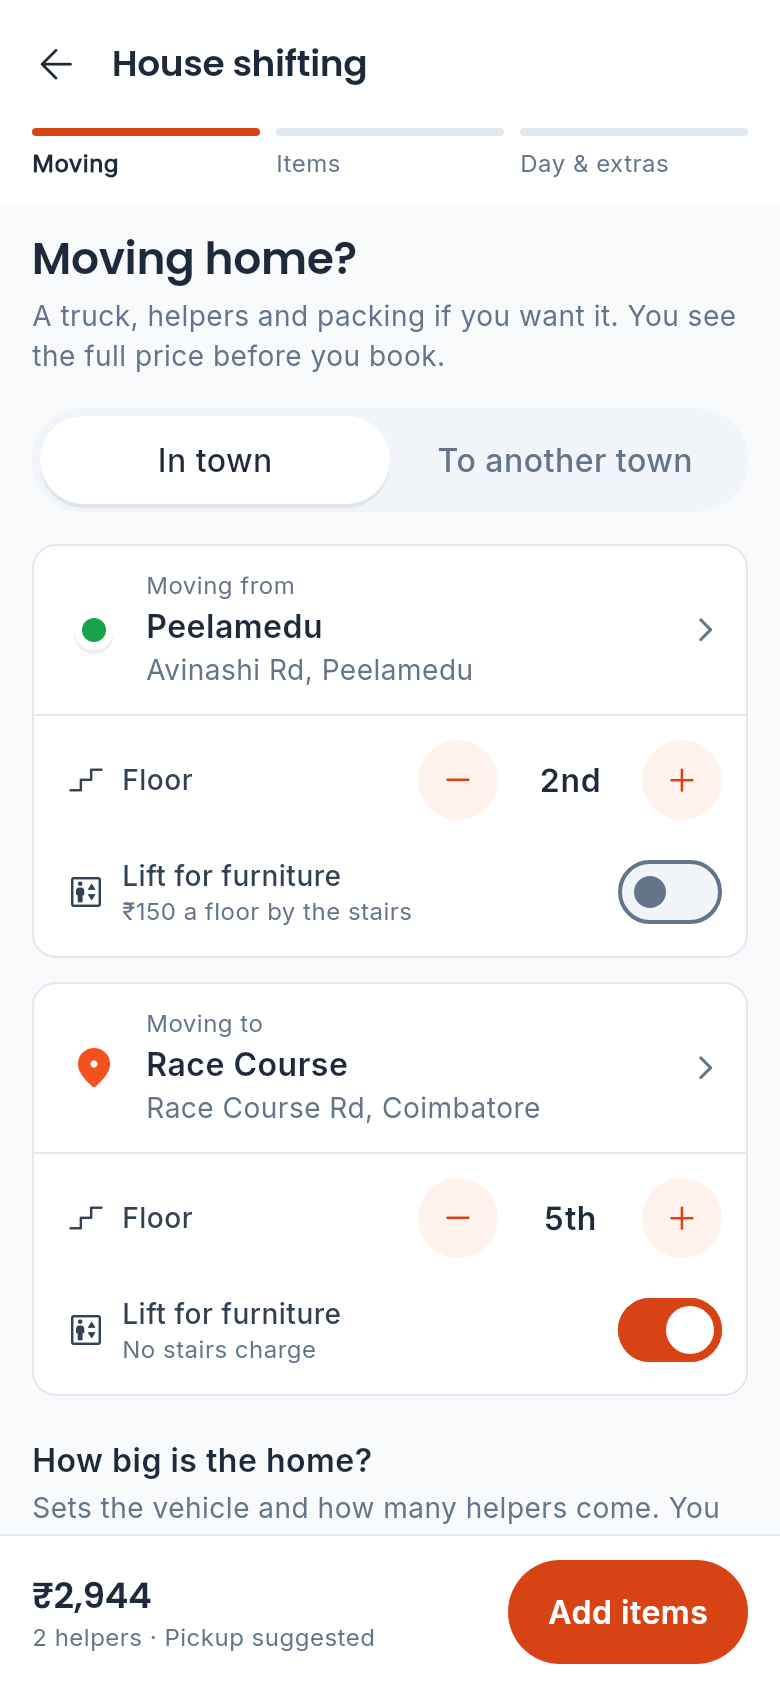
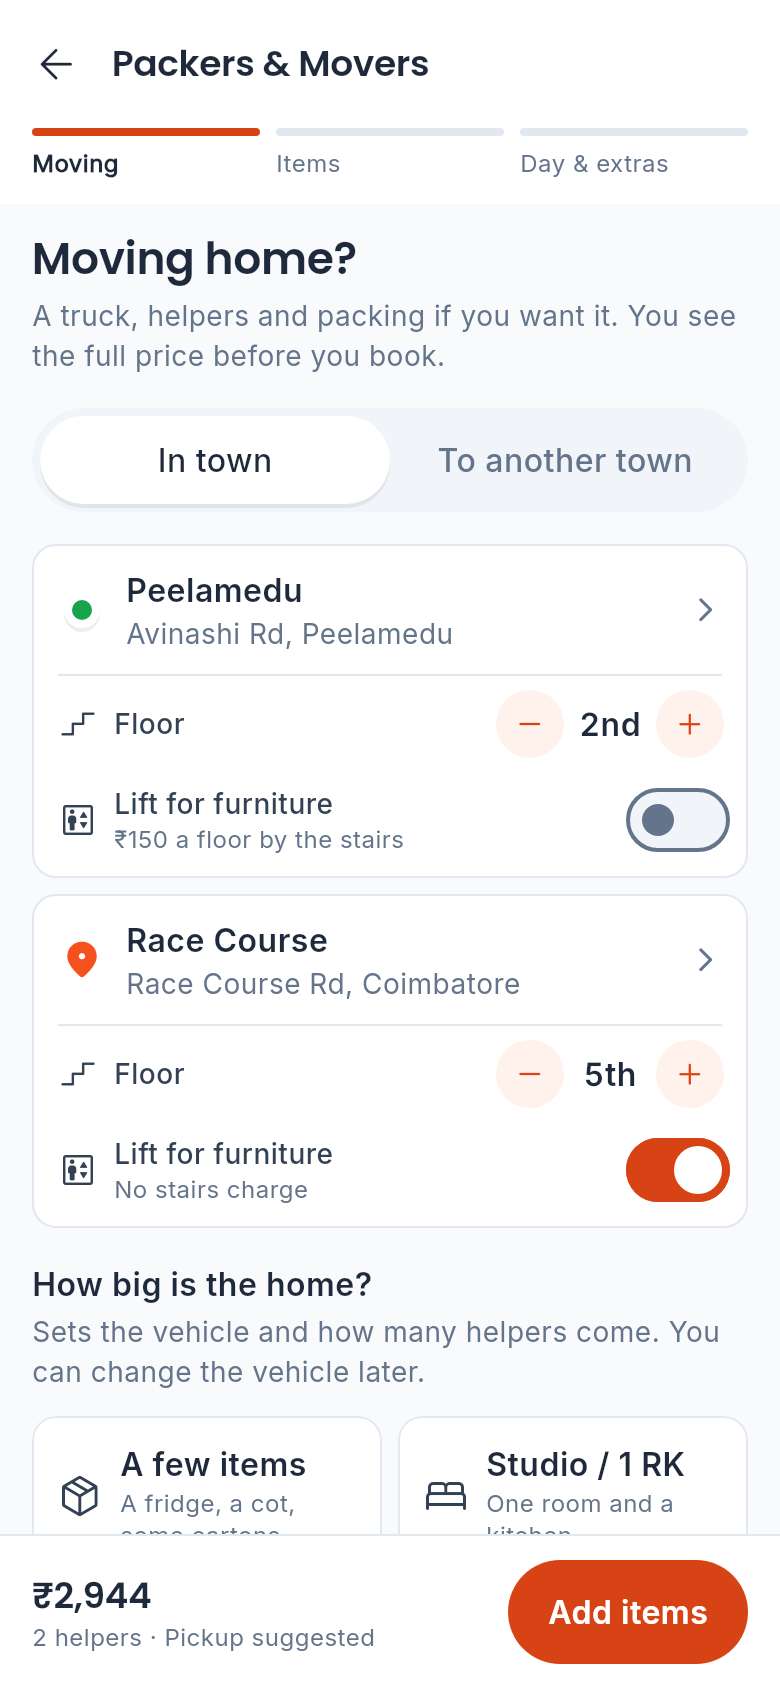
fix(passenger): compact Packers & Movers step 1, no endless price placeholder
PH-01's old and new home cards are a third shorter: no "Moving from / to"
caption (the dot and pin say it, the label stays for screen readers),
tighter padding and a dense floor stepper, so the home sizes show above the
fold.

Until the new home is chosen there is nothing to price, but the price bar
showed a grey placeholder that looked like it was loading for ever. It now
shows only "Choose the new home to see the price" (ShiftingPriceBar
`pricing`); the placeholder stays for a price that is on its way. PH-01's
title is "Packers & Movers".

diff --git a/apps/passenger/lib/features/shifting/widgets/shifting_widgets.dart b/apps/passenger/lib/features/shifting/widgets/shifting_widgets.dart
@@ -190,7 +190,8 @@ String floorShort(int floor) {
   return floorLabel(floor, false).split(' ').first;
 }
 
-/// One end of the move: the place (tap to change), its floor and whether there is a lift.
+/// One end of the move, compact: the place (tap to change; the green dot is the old home, the pin the new one), its
+/// floor and, above the ground floor, whether there is a lift.
 class MoveEndCard extends StatelessWidget {
   const MoveEndCard({
     super.key,
@@ -219,7 +220,7 @@ class MoveEndCard extends StatelessWidget {
     final t = context.type;
     final p = place;
     return Container(
-      margin: const EdgeInsets.only(bottom: TtSpacing.m),
+      margin: const EdgeInsets.only(bottom: TtSpacing.s),
       decoration: BoxDecoration(
         color: TtColors.surface,
         borderRadius: TtRadii.cardRadius,
@@ -229,44 +230,49 @@ class MoveEndCard extends StatelessWidget {
       child: Column(
         crossAxisAlignment: CrossAxisAlignment.stretch,
         children: [
-          InkWell(
-            onTap: onPlace,
-            child: Padding(
-              padding: const EdgeInsets.fromLTRB(TtSpacing.l, TtSpacing.m, TtSpacing.s, TtSpacing.m),
-              child: Row(
-                children: [
-                  SizedBox(width: 28, child: Center(child: isPickup ? const PickupDot(size: 12) : const DropPin(size: 24))),
-                  const SizedBox(width: TtSpacing.m),
-                  Expanded(
-                    child: Column(
-                      crossAxisAlignment: CrossAxisAlignment.start,
-                      children: [
-                        Text(isPickup ? 'Moving from' : 'Moving to', style: t.caption.copyWith(color: TtColors.navy500)),
-                        Text(
-                          p?.name ?? 'Choose the new home',
-                          style: t.bodySemibold.copyWith(color: p == null ? TtColors.coral600 : TtColors.navy900),
-                          maxLines: 1,
-                          overflow: TextOverflow.ellipsis,
-                        ),
-                        if (p != null && p.address.isNotEmpty)
-                          Text(p.address, style: t.bodySmall.copyWith(color: TtColors.navy500), maxLines: 1, overflow: TextOverflow.ellipsis),
-                      ],
+          Semantics(
+            button: true,
+            label: '${isPickup ? 'Moving from' : 'Moving to'} ${p?.name ?? 'not chosen yet'}',
+            excludeSemantics: true,
+            child: InkWell(
+              onTap: onPlace,
+              child: Padding(
+                padding: const EdgeInsets.fromLTRB(TtSpacing.m, 10, TtSpacing.s, 10),
+                child: Row(
+                  children: [
+                    SizedBox(width: 24, child: Center(child: isPickup ? const PickupDot(size: 10) : const DropPin(size: 22))),
+                    const SizedBox(width: 10),
+                    Expanded(
+                      child: Column(
+                        crossAxisAlignment: CrossAxisAlignment.start,
+                        children: [
+                          Text(
+                            p?.name ?? 'Choose the new home',
+                            style: t.bodySemibold.copyWith(color: p == null ? TtColors.coral600 : TtColors.navy900),
+                            maxLines: 1,
+                            overflow: TextOverflow.ellipsis,
+                          ),
+                          if (p != null && p.address.isNotEmpty)
+                            Text(p.address, style: t.bodySmall.copyWith(color: TtColors.navy500), maxLines: 1, overflow: TextOverflow.ellipsis),
+                        ],
+                      ),
                     ),
-                  ),
-                  const Icon(Symbols.chevron_right_rounded, color: TtColors.navy500),
-                ],
+                    const Icon(Symbols.chevron_right_rounded, color: TtColors.navy500),
+                  ],
+                ),
               ),
             ),
           ),
-          const Divider(height: 1),
+          const Divider(height: 1, indent: TtSpacing.m, endIndent: TtSpacing.m),
           Padding(
-            padding: const EdgeInsets.fromLTRB(TtSpacing.l, TtSpacing.s, TtSpacing.s, TtSpacing.s),
+            padding: const EdgeInsets.fromLTRB(TtSpacing.m, 0, TtSpacing.xs, 0),
             child: Row(
               children: [
                 const Icon(Symbols.stairs_2_rounded, size: 20, color: TtColors.navy700),
                 const SizedBox(width: TtSpacing.s),
                 Expanded(child: Text('Floor', style: t.bodySmallMedium.copyWith(color: TtColors.navy700))),
                 CountStepper(
+                  dense: true,
                   value: floor,
                   max: GoodsModeRates.maxFloor,
                   label: floorShort(floor),
@@ -283,7 +289,7 @@ class MoveEndCard extends StatelessWidget {
             child: floor == 0
                 ? const SizedBox(width: double.infinity)
                 : Padding(
-                    padding: const EdgeInsets.fromLTRB(TtSpacing.l, 0, TtSpacing.s, TtSpacing.s),
+                    padding: const EdgeInsets.fromLTRB(TtSpacing.m, 0, TtSpacing.xs, TtSpacing.xs),
                     child: Row(
                       children: [
                         const Icon(Symbols.elevator_rounded, size: 20, color: TtColors.navy700),
@@ -379,11 +385,15 @@ class ShiftingPriceBar extends StatelessWidget {
     required this.onPressed,
     this.caption,
     this.loading = false,
+    this.pricing = true,
     this.onDetails,
   });
 
-  /// Null while it is being priced (or there is nothing to price yet).
+  /// Null while it is being priced, or when there is nothing to price yet (see [pricing]).
   final int? total;
+
+  /// A null [total] is on its way (a placeholder shows); false: nothing to price yet, the [caption] says why.
+  final bool pricing;
   final String label;
   final VoidCallback? onPressed;
 
@@ -423,9 +433,11 @@ class ShiftingPriceBar extends StatelessWidget {
                           children: [
                             AnimatedSwitcher(
                               duration: const Duration(milliseconds: 200),
-                              child: total == null
-                                  ? const SkeletonBox(key: ValueKey('none'), width: 72, height: 24)
-                                  : Text(formatInr(total!), key: ValueKey(total), style: TtTextStyles.tabular(t.h2)),
+                              child: total != null
+                                  ? Text(formatInr(total!), key: ValueKey(total), style: TtTextStyles.tabular(t.h2))
+                                  : pricing
+                                      ? const SkeletonBox(key: ValueKey('pricing'), width: 72, height: 24)
+                                      : const SizedBox.shrink(key: ValueKey('nothing')),
                             ),
                             if (onDetails != null && total != null) ...[
                               const SizedBox(width: 2),
@@ -434,7 +446,15 @@ class ShiftingPriceBar extends StatelessWidget {
                           ],
                         ),
                         if (caption != null)
-                          Text(caption!, style: t.caption.copyWith(color: TtColors.navy500), maxLines: 1, overflow: TextOverflow.ellipsis),
+                          Text(
+                            caption!,
+                            // On its own (nothing priced yet) it is the bar's only line: a size up.
+                            style: total == null && !pricing
+                                ? t.bodySmall.copyWith(color: TtColors.navy700)
+                                : t.caption.copyWith(color: TtColors.navy500),
+                            maxLines: 2,
+                            overflow: TextOverflow.ellipsis,
+                          ),
                       ],
                     ),
                   ),

diff --git a/apps/passenger/test/shifting_test.dart b/apps/passenger/test/shifting_test.dart
@@ -7,6 +7,7 @@ import 'package:tamiltaxi_passenger/features/ride/p36_booked_later_screen.dart';
 import 'package:tamiltaxi_passenger/features/shifting/ph02_items_screen.dart';
 import 'package:tamiltaxi_passenger/features/shifting/ph03_schedule_screen.dart';
 import 'package:tamiltaxi_passenger/features/shifting/ph04_review_screen.dart';
+import 'package:tamiltaxi_passenger/features/shifting/widgets/shifting_widgets.dart';
 import 'package:tamiltaxi_passenger/router/routes.dart';
 import 'package:tamiltaxi_passenger/state/parcel_flow.dart';
 import 'package:tamiltaxi_passenger/state/shifting_flow.dart';
@@ -55,6 +56,8 @@ void main() {
     expect(find.text('Moving home?'), findsOneWidget);
     // No price before the new home is chosen.
     expect(find.text('Choose the new home to see the price'), findsOneWidget);
+    // …and no price placeholder, which looked like it was loading for ever.
+    expect(find.descendant(of: find.byType(ShiftingPriceBar), matching: find.byType(SkeletonBox)), findsNothing);
     flow.setDrop(Seed.raceCourse);
     await advance(tester, const Duration(milliseconds: 300));
     await tapText(tester, '2 BHK');

diff --git a/apps/passenger/lib/features/shifting/ph01_moving_details_screen.dart b/apps/passenger/lib/features/shifting/ph01_moving_details_screen.dart
@@ -38,11 +38,13 @@ class PH01MovingDetailsScreen extends ConsumerWidget {
     }
 
     return ShiftingScaffold(
-      title: 'House shifting',
+      title: 'Packers & Movers',
       step: 1,
       onBack: () => context.canPop() ? context.pop() : context.go(Routes.parcel),
       bottom: ShiftingPriceBar(
         total: s.placesReady ? s.quote?.lines.total : null,
+        // No new home yet: nothing to price, so no placeholder that seems to load for ever.
+        pricing: s.placesReady,
         caption: s.placesReady ? '${size.helpers} helpers · ${s.vehicleOrSuggested.label} suggested' : 'Choose the new home to see the price',
         label: 'Add items',
         onPressed: showcase ? () {} : (s.placesReady ? () => context.push(Routes.shiftingItems) : null),

diff --git a/docs/tech-docs/using.tech.md b/docs/tech-docs/using.tech.md
@@ -1138,9 +1138,10 @@ the shared `packages/tamiltaxi_data/test/fixtures/goods_mode_cases.json`. No sur
   app) and "Save this address" as Home / Work / Shop (Shop is an "other" saved place).
 - PP-06: each goods vehicle shows its load bed ("5 ft bed") and capacity; to another town each shows ₹/km and the
   km charged, with When? (now / schedule); a scheduled delivery goes to P-36 and Activity › Upcoming.
-- House shifting, three steps and a review (`lib/features/shifting/`, `state/shifting_flow.dart`):
+- Packers & Movers, three steps and a review (`lib/features/shifting/`, `state/shifting_flow.dart`):
   - PH-01 Moving details: in town / to another town, old and new home with a floor stepper and a "Lift for
-    furniture" switch, home size tiles (the suggested vehicle and helpers show under them).
+    furniture" switch (compact cards), home size tiles (the suggested vehicle and helpers show under them). Until
+    the new home is chosen the price bar shows only "Choose the new home to see the price" (no placeholder).
   - PH-02 Items: no catalogue. Type an item, optional details and how many; or "Paste a list" (one per line,
     "2 chairs", "Cartons x10", "Fridge - single door"; `parseItemList`); tap an item to edit or remove it. Up to 60.
   - PH-03 Day & extras: the next 7 days with each day's price (weekends marked), two-hour slots (at least an hour
